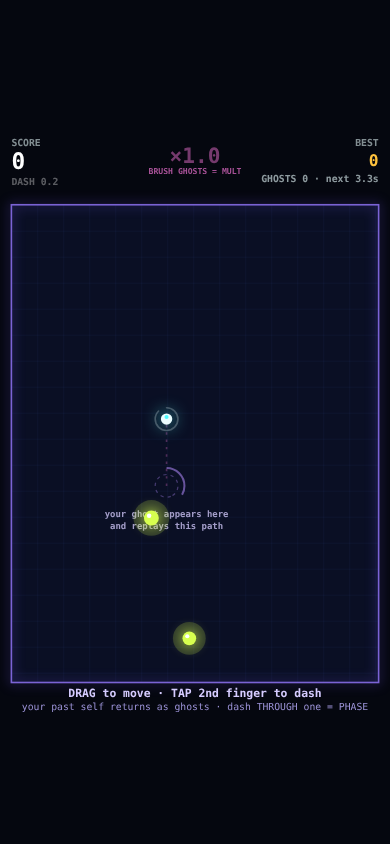
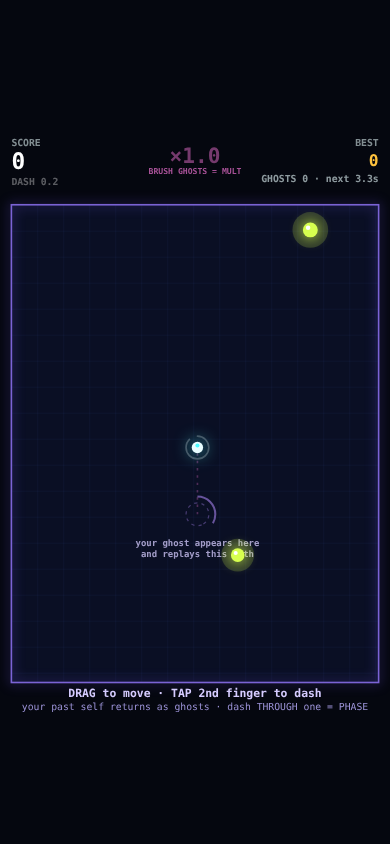
D11-D12 decisions; runall --aggregate-only; WIP v2 re-measure of 5 touched games
Claude-Session: https://claude.ai/code/session_01DFtzVURspk5R5pY7Xudhci

diff --git a/lab/runall.js b/lab/runall.js
@@ -1,6 +1,6 @@
 #!/usr/bin/env node
 // Run the whole lab: check + 50-seed bot runs + screenshots for every game, then aggregate.
-// usage: node lab/runall.js [--n 50] [--par 2] [--tag v1] [--only id1,id2] [--skip-shots]
+// usage: node lab/runall.js [--n 50] [--par 2] [--tag v1] [--only id1,id2] [--skip-shots] [--aggregate-only]
 'use strict';
 const { spawn } = require('child_process');
 const fs = require('fs');
@@ -38,7 +38,7 @@ function sh(args, logFile) {
       console.log(`${id}: check=${c1 === 0 ? 'PASS' : 'FAIL'} run=${c2} shoot=${c3}  (${Math.round((Date.now() - t0) / 1000)}s)`);
     }
   }
-  await Promise.all(Array.from({ length: PAR }, worker));
+  if (!argv.includes('--aggregate-only')) await Promise.all(Array.from({ length: PAR }, worker));   // --aggregate-only: rebuild summary from existing per-game results
 
   // aggregate
   const summary = { date: new Date().toISOString(), tag: TAG, games: {} };

diff --git a/DECISIONS.md b/DECISIONS.md
@@ -113,3 +113,18 @@ Provisional final = 0.30 × bot (v2, round-1 data) + 0.35 × blind critic + 0.35
 - **The 3 games with only bug fixes keep their round-1 critic score:** MAZEWRIGHT, TILTWELL, UPTEMPO. Their fixes removed specific friction the critic named, so their round-1 critic score is if anything conservative. I accept that asymmetry rather than spend another ~1 hour of critic time.
 - **Critic scores used in the final ranking:** round 2 where it exists, otherwise round 1. Both are reported.
 - **"Mine":** my post-change gut score (`gut2`) where I re-played, otherwise my round-1 gut. Both are reported.
+
+## D11. Final fixes after critic round 2, and the final measurement
+- **Small friction fixes from the fresh critic:**
+  - LOOPBACK: grace after phasing a ghost.
+  - COMPOUND: builds at the advertised ★ cell.
+  - SPELLSNAKE: says why a cast became a SPIT, and the suggestion tracks your progress.
+  - MAGSUMO: correct ring-out attribution.
+  - KICKBACK: POINT-BLANK and RIM SKIM taught in play.
+- These five games were re-measured (50 seeds × 3 bots) so the published v2 data matches the shipped builds exactly. `lab/runall.js --aggregate-only` rebuilds the 10-game summary.
+- The round-2 critic scored builds from *before* these fixes. I did not run a third critic pass: the fixes address that critic's own complaints, so its scores are, if anything, conservative.
+- PIPWALK's arrow keys navigating the upgrade draft was **not** changed. Arrows only move the highlight and never pick or roll, so moves queued at floor-clear are simply dropped, which is harmless.
+
+## D12. Choosing the winner
+- PIPWALK has the highest final score (0.30 bot + 0.35 critic + 0.35 me). It is also the only game that every judge places at or near the top: a graded bot score of 10.0, 10/10 from both independent blind critics, and 8.5 from me.
+- **Sensitivity check:** PIPWALK is 1st under 6 of 7 alternative weightings. The exception is "my score only", which favours SPELLSNAKE (9.0 vs 8.5). I didn't let my own favourite override two blind judges and the bots.
